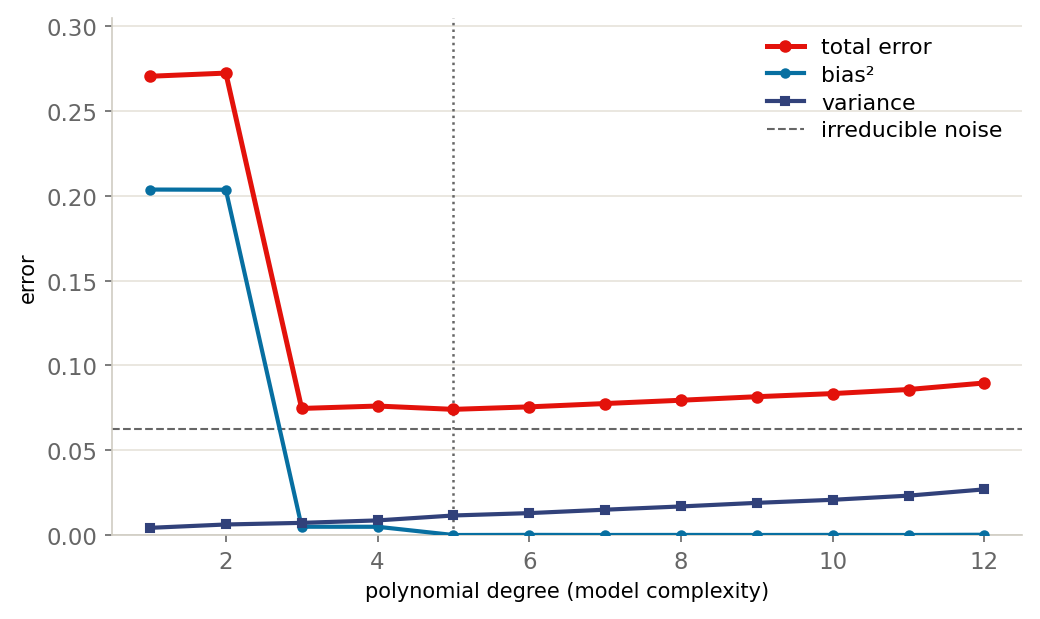
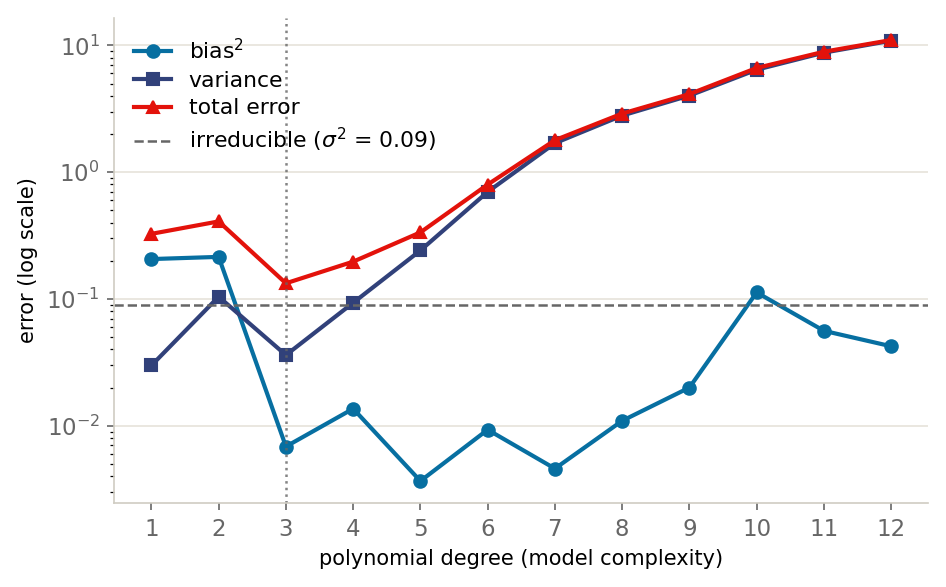
Round three: the hero figure nobody opened, and five contradicting neighbours
A second-round numerical review found that both previous rounds rewrote ch05_01's
caption without ever looking at the figure it describes.

The figure was not the figure the code produces
------------------------------------------------

figures/ch05_01_bias_variance.png showed its minimum at degree five, a noise floor
near 0.062, and a right-hand tail topping out at 0.089 -- while the cell beneath it,
captioned "This is the result the code below reproduces", gives degree three, 0.090,
and 11.01. Different noise level, different winner, and a tail two orders of magnitude
out. Round one called the curve a staircase and round two called its minimum degree
three; both were arguing about a picture neither had opened.

The figure is now generated from the page's own decompose cell by a new
tools/make_ch05_01_figure.py, on a log axis because the tail spans three orders of
magnitude and will not otherwise share an axis with the rest. Minimum at degree three,
floor at 0.09, tail at 11.01 -- and the caption is now true of both the code and the
picture. The odd/even zigzag in bias, which is real, is visible at last.

Neighbours that contradicted the rewritten passages
---------------------------------------------------

Each round edited the paragraph that was flagged without grepping the page for the
same claim made elsewhere:

- ch08_02 still said the support-vector count "climbs as gamma grows" a hundred lines
[…]

diff --git a/theme.scss b/theme.scss
@@ -128,7 +128,7 @@ div.sourceCode{ border:1px solid $rule; border-radius:6px; }
 
 /* The real quarto-live run button is .exercise-editor-btn-run-code (a Bootstrap
    btn-primary, so navy by default). Make the READY (non-disabled) button the
-   signature red; it stays grey-disabled while the runtime downloads, which reads
+   signature red; it stays gray-disabled while the runtime downloads, which reads
    as "loading", then turns red = "ready, click me". */
 .exercise-editor-btn-run-code:not(.disabled),
 .exercise-editor-btn-run-code:not(.disabled):focus{

diff --git a/tools/make_ch05_01_figure.py b/tools/make_ch05_01_figure.py
@@ -1,0 +1,61 @@
+"""Hero figure for ch05_01: the bias-variance decomposition.
+
+Reproduces the page's own `decompose` cell exactly -- same truth, same noise,
+same 100 datasets of 20 points, same clip -- so the caption's claim that this
+is what the code below produces is true. Treatment B per FIGURE_SPEC.md.
+"""
+import sys
+sys.path.insert(0, "/Users/gregorywheeler/Dropbox/A_COURSES/Machine Learning I/Lecture NOTES/MLone book/notebooks")
+import warnings
+warnings.filterwarnings("ignore")
+import numpy as np
+import matplotlib.pyplot as plt
+import mlone_theme as mt
+mt.set_book_mode()
+SPINE, GRID = "#cfccc2", "#e6e3da"
+
+def true_f(x):
+    return np.sin(2 * np.pi * x)
+
+def decompose(degree, n_datasets=100, n=20, noise=0.3):
+    grid = np.linspace(0, 1, 100)
+    truth = true_f(grid)
+    preds = []
+    for s in range(n_datasets):
+        np.random.seed(s)
+        x = np.random.uniform(0, 1, n)
+        y = true_f(x) + np.random.normal(0, noise, n)
+        coef = np.polyfit(x, y, degree)
+        preds.append(np.clip(np.polyval(coef, grid), -10, 10))
+    preds = np.array(preds)
+    bias2 = ((preds.mean(0) - truth) ** 2).mean()
+    var = preds.var(0).mean()
+    return bias2, var, noise ** 2, bias2 + var + noise ** 2
+
+degrees = list(range(1, 13))
+rows = [decompose(d) for d in degrees]
+bias2 = [r[0] for r in rows]; var = [r[1] for r in rows]
+irr = rows[0][2];            total = [r[3] for r in rows]
+best = degrees[int(np.argmin(total))]
+print(f"minimum total error at degree {best}; irreducible {irr:.3f}; "
+      f"total at degree 12 {total[-1]:.2f}")
+
+fig, ax = plt.subplots(figsize=(7.0, 4.2))
+ax.plot(degrees, bias2, "o-", color=mt.BLUE,    lw=2, label="bias$^2$")
+ax.plot(degrees, var,   "s-", color=mt.FS_BLUE, lw=2, label="variance")
+ax.plot(degrees, total, "^-", color=mt.RED,     lw=2, label="total error")
+ax.axhline(irr, color=mt.GRAY, ls="--", lw=1.2,
+           label=f"irreducible ($\\sigma^2$ = {irr:.2f})")
+ax.axvline(best, color=mt.GRAY, ls=":", lw=1.2, alpha=0.8)
+ax.set_yscale("log")          # the tail spans three orders of magnitude
+ax.set_xlabel("polynomial degree (model complexity)")
+ax.set_ylabel("error (log scale)")
+for s in ["top", "right"]: ax.spines[s].set_visible(False)
+for s in ["left", "bottom"]: ax.spines[s].set_color(SPINE)
+ax.yaxis.grid(True, color=GRID, lw=0.8); ax.set_axisbelow(True)
+ax.tick_params(colors="#666666", labelsize=11)
+ax.set_xticks(degrees)
+ax.legend(loc="upper left", frameon=False, fontsize=10.5,
+          handlelength=1.7, labelspacing=0.35)
+fig.savefig("/Users/gregorywheeler/Dropbox/A_COURSES/Machine Learning I/Lecture NOTES/MLone book/companion-site/figures/ch05_01_bias_variance.png",
+            dpi=150, bbox_inches="tight", facecolor="white", pad_inches=0.12)
